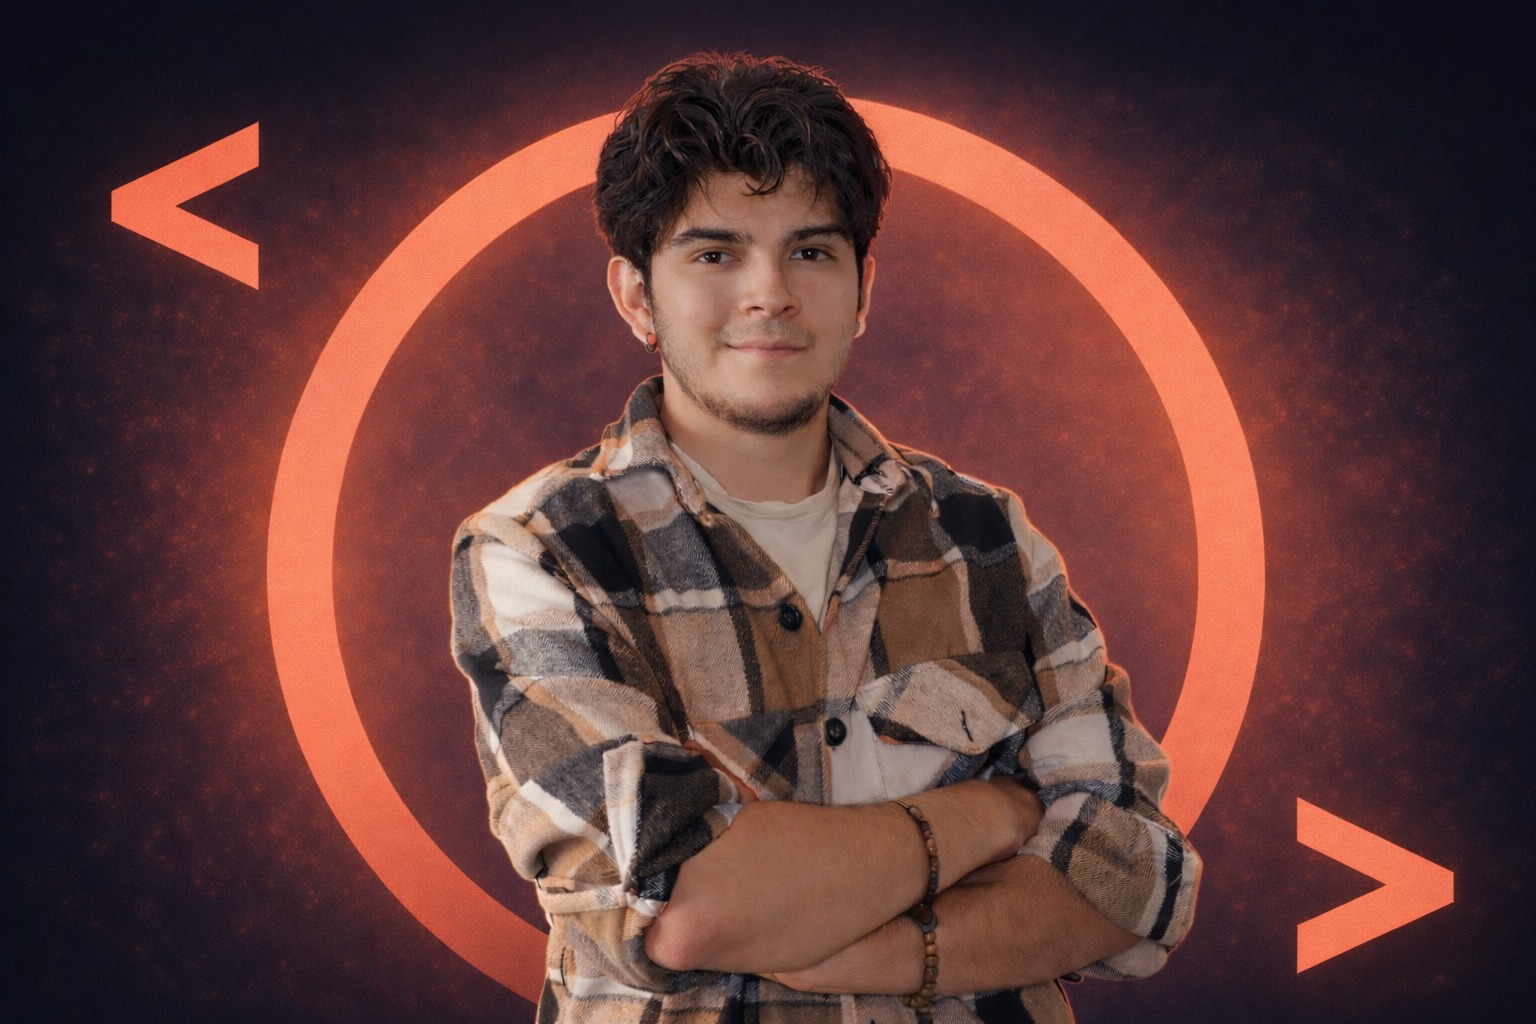
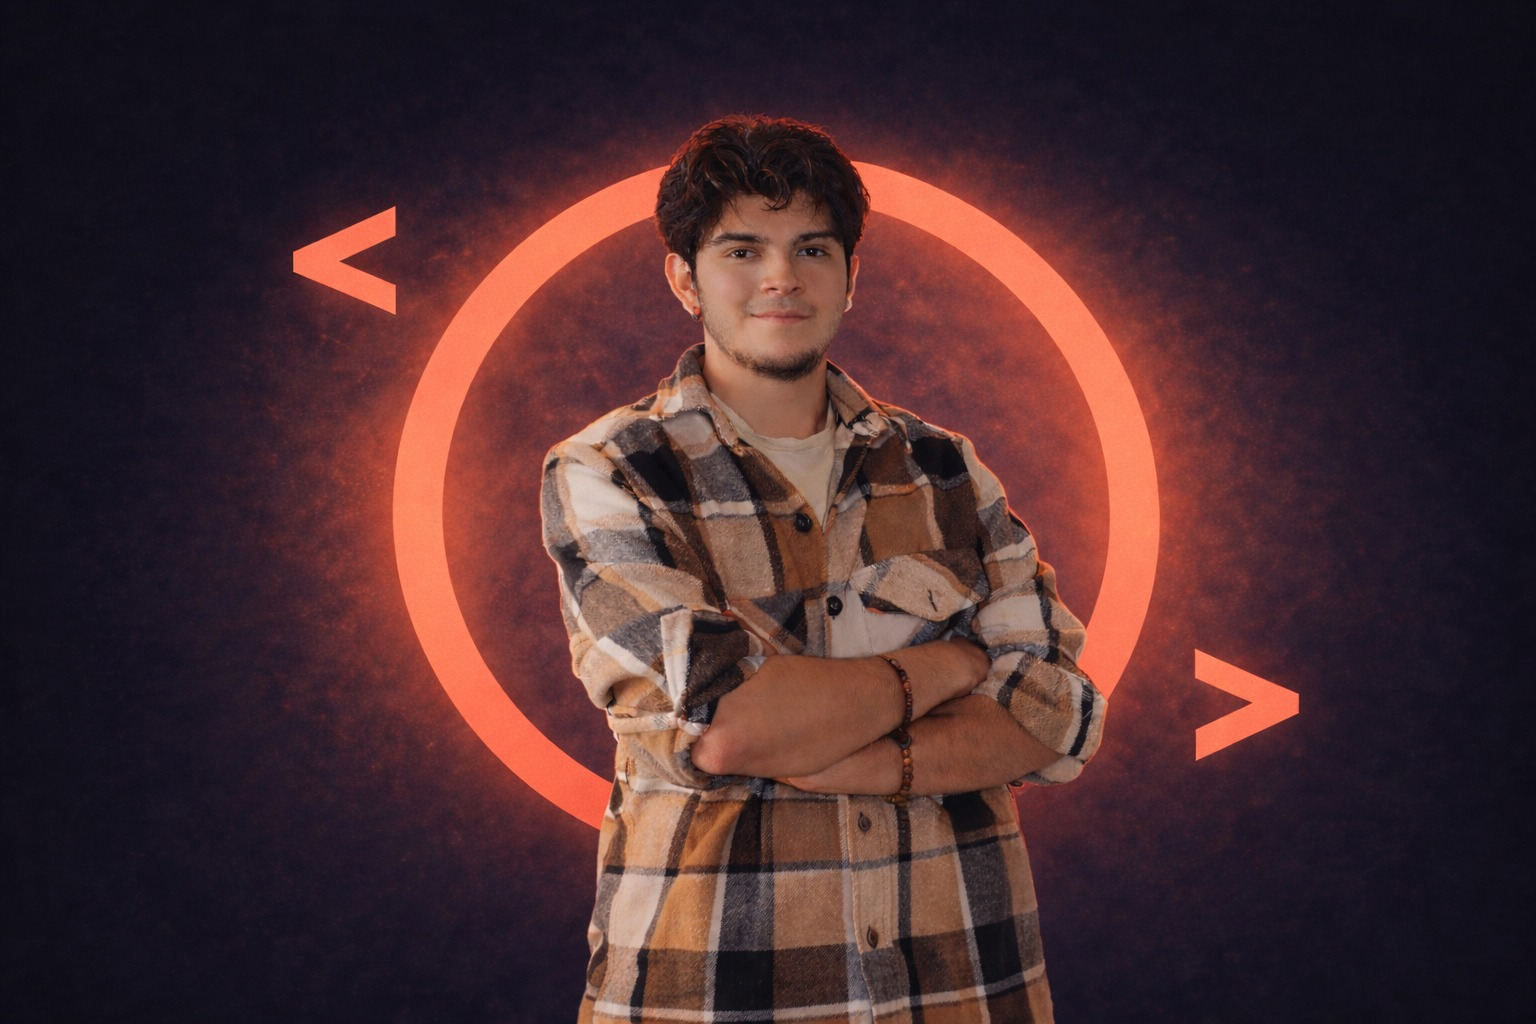
Changes

diff --git a/src/components/sections/HeroSection.tsx b/src/components/sections/HeroSection.tsx
@@ -104,11 +104,11 @@ export const HeroSection = () => {
                 <div className="absolute inset-0 rounded-full border border-primary/20" />
                 
                 {/* Profile image container - circular crop */}
-                <div className="absolute inset-3 rounded-full overflow-hidden border-2 border-primary/30">
+                <div className="absolute inset-0 rounded-full overflow-hidden">
                   <img 
                     src={profilePhoto} 
                     alt="Profile photo" 
-                    className="w-full h-full object-cover object-top scale-110"
+                    className="w-full h-full object-cover object-center"
                   />
                 </div>
                 
